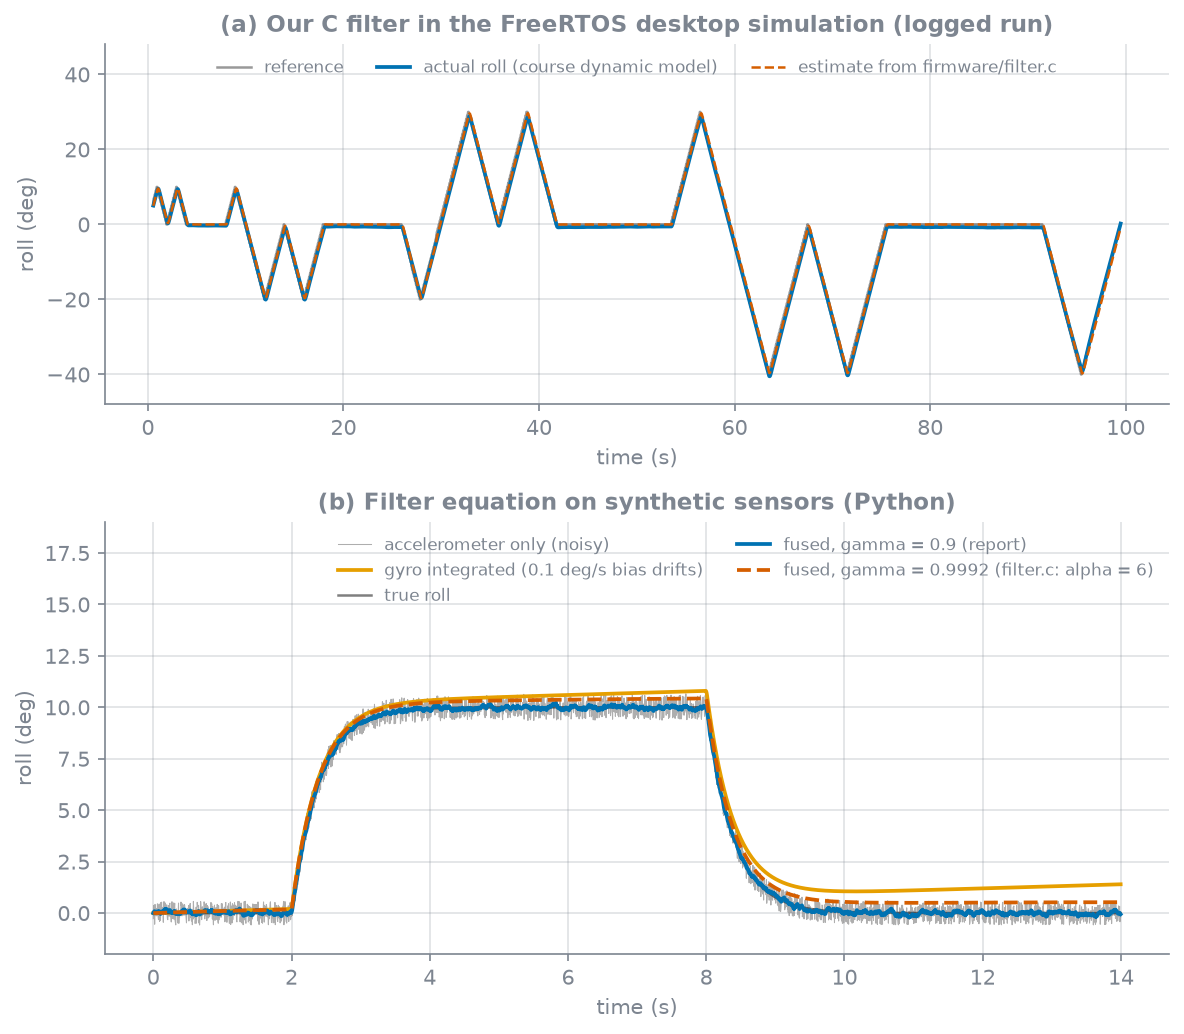
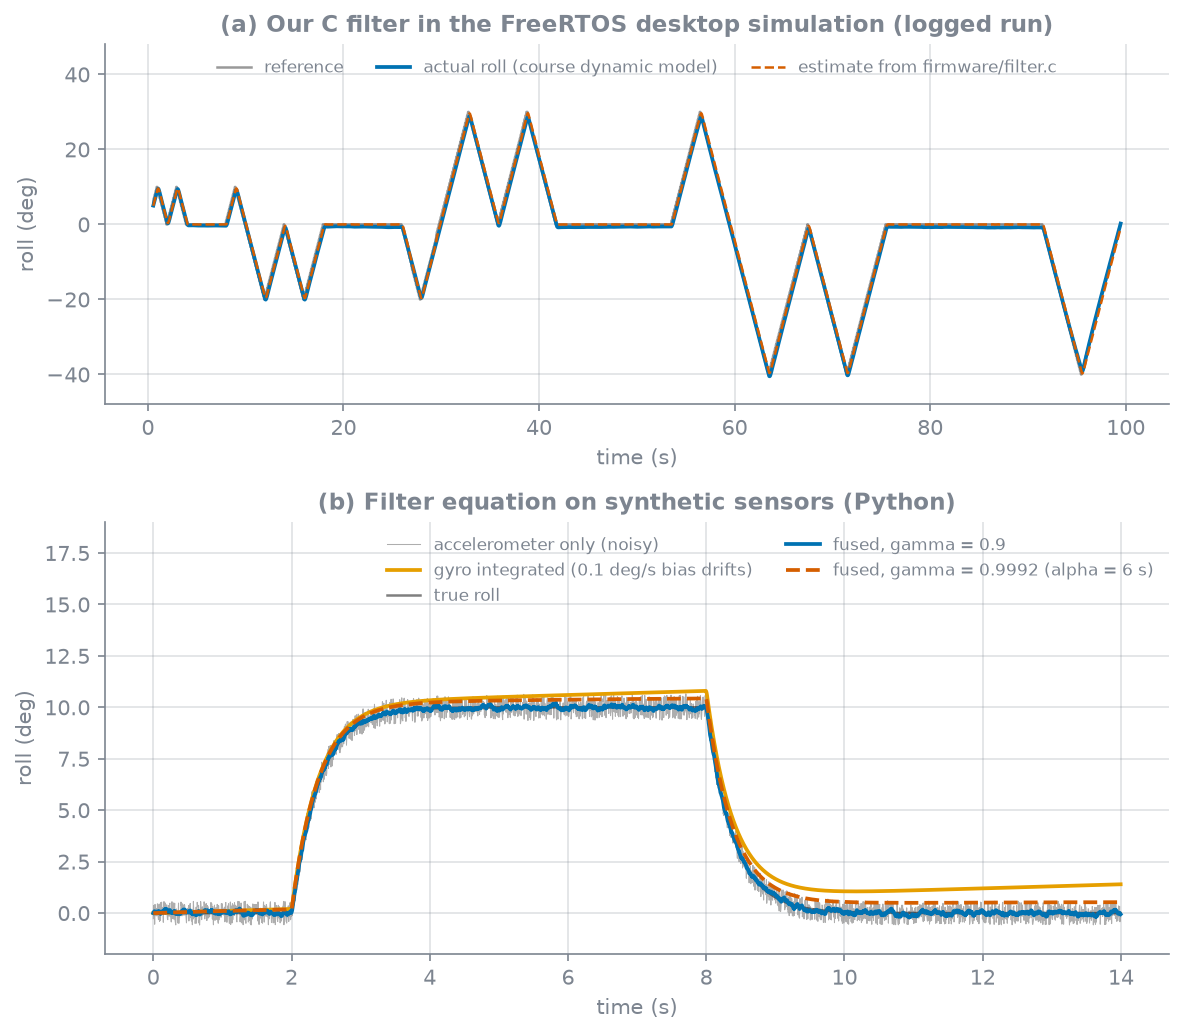
Restructure README to the showcase template (problems, approach, solutions, how to run)

Changed region(s): [[0.2812, 0.5261, 0.9688, 0.588]]

diff --git a/analysis/fig_filter.py b/analysis/fig_filter.py
@@ -31,8 +31,8 @@ a.set_title("(a) Our C filter in the FreeRTOS desktop simulation (logged run)")
 b.plot(t, acc_roll, color=GREY, lw=0.5, alpha=0.7, label="accelerometer only (noisy)")
 b.plot(t, gyro_int, color=ORANGE, label="gyro integrated (0.1 deg/s bias drifts)")
 b.plot(t, roll, color="k", alpha=0.5, lw=1.2, label="true roll")
-b.plot(t, f09, color=BLUE, label="fused, gamma = 0.9 (report)")
-b.plot(t, f0999, color=VERM, ls="--", label="fused, gamma = 0.9992 (filter.c: alpha = 6)")
+b.plot(t, f09, color=BLUE, label="fused, gamma = 0.9")
+b.plot(t, f0999, color=VERM, ls="--", label="fused, gamma = 0.9992 (alpha = 6 s)")
 b.set_ylim(-2, 19); b.set_xlabel("time (s)"); b.set_ylabel("roll (deg)"); b.legend(fontsize=8, loc="upper right", ncol=2)
 b.set_title("(b) Filter equation on synthetic sensors (Python)")
 fig.tight_layout(); fig.savefig(MEDIA / "filter.png")

diff --git a/README.md b/README.md
@@ -1,96 +1,88 @@
 # Crazyflie quadrotor: LQR attitude control and complementary filter
 
+> What is this project about?
+> Making a 27 g Crazyflie 2.1 hold its roll and pitch: model it, design a controller, estimate its attitude from an IMU, and run it as real-time C code. A four-person SSY191 course project (Chalmers). I took ownership of the complementary filter and was heavily involved in testing the code on the Crazyflie hardware.
+
 ![Animated 3D quadrotor following roll and pitch pulses in simulation, with roll and pitch traces beside it](media/hero.gif)
 
-*Attitude only, linearised model. This is a Python re-implementation of the report's model, not the team's Simulink model.*
+*Attitude only, linearised model (Python re-implementation).*
 
-## The project
+## TLDR (In brief)
 
-SSY191 (Chalmers, Model-Based Development of Cyber-Physical Systems) asks a team to take a Crazyflie 2.1 quadrotor from a physical
-model to a controller running on the drone. The goal was to hold roll and pitch and track reference changes. It was a four-person
-team project. I took ownership of the complementary filter and was heavily involved in testing the code on the Crazyflie hardware.
-The model, the LQR design and the rest of the C tasks are team work.
+- **Problem:** stabilise roll and pitch of a quadrotor and track reference changes, using only an accelerometer and a gyro for feedback.
+- **Approach:** a Simscape model linearised at hover, a discrete LQR (Ts = 0.01 s), a complementary filter for the angles, and FreeRTOS tasks in C.
+- **Results:** in simulation a 10 deg pulse rises in 0.85 s with no overshoot, and the filter holds roll within 1.7 deg of the truth in a 99.5 s run. On the real drone the controller oscillated in roll, and the Embedded Coder port was not completed.
 
-## What was done
+## Repo map
 
-1. **Model.** A nonlinear Simscape model of the quadrotor (thrust and torque from four rotors, rigid-body dynamics), linearised at hover
-   into five states (roll, roll rate, pitch, pitch rate, yaw rate) and four rotor-thrust inputs. Equations and constants are in [`docs/model.md`](docs/model.md).
-2. **Controller.** A discrete LQR at Ts = 0.01 s, with Q = diag(2, 0.3, 2, 0.3, 0.5) and R = I, tuned by trial in simulation.
-3. **Estimator.** A complementary filter turns accelerometer and gyro data into roll and pitch angles (next section).
-4. **Embedded implementation.** The filter and controller as FreeRTOS tasks in C, run in a desktop simulation. The Simulink-to-C path
-   with Embedded Coder was not completed.
-5. **Hardware test.** The controller was flashed to the drone and oscillated in roll (see Results).
+```
+README.md
+analysis/   Python scripts that regenerate every figure (+ data/ with a logged C simulation run)
+docs/       model notes (model.md), data sources and mismatches (results.md), metrics/*.json
+firmware/   our C files: filter.c/.h (mine), controller.c/.h (team)
+media/      figures and animations used here
+simulink/   public Crazyflie constants (params.m) and a note on the models
+```
+
+## Problems we had to solve
+
+1. **Model.** A quadrotor is nonlinear and coupled. We needed a model simple enough to design a controller on.
+2. **Control.** Hold roll and pitch, follow reference pulses and reject disturbances, with four motors as the only actuators.
+3. **Attitude estimate.** The accelerometer is noisy and the gyro drifts, and neither gives a usable angle alone. (my part)
+4. **Real-time implementation.** Sensors, filter, controller and references run at different rates and share data, so reads and writes must not collide.
+5. **Model to hardware.** Get the simulated controller running on the real drone.
+
+## Approach we took
+
+- **Model and control (team).** A Simscape model of the thrust and torque from four rotors, linearised at hover into five states (roll, roll rate, pitch, pitch rate, yaw rate) with four thrust inputs. A discrete LQR with Q = diag(2, 0.3, 2, 0.3, 0.5) and R = I, tuned by trial in simulation. Details: [`docs/model.md`](docs/model.md).
+- **Estimation (mine).** A complementary filter: the gyro supplies the short-term motion, the accelerometer pins the long-term angle.
+
+  ```
+  roll_acc  = atan2(a_y, a_z)
+  pitch_acc = atan2(-a_x, sqrt(a_y^2 + a_z^2))
+  theta_k   = (1 - gamma) * theta_acc + gamma * (theta_{k-1} + h * gyro_k)
+  ```
+
+  It runs as a FreeRTOS task every 5 ms (`vTaskDelayUntil`), copies sensor data under `sensors_sem`, and writes the estimate under `estimate_sem` so the 100 Hz controller never reads a half-written value. Yaw is not estimated; the controller feeds back yaw rate only. Code: [`firmware/filter.c`](firmware/filter.c).
+- **Implementation (team, filter mine).** Five C tasks (dynamic model, filter, controller, reference generator, logger) sharing state through binary semaphores. I also took part in the hardware testing.
 
 ![Architecture: a Simulink path from plant to Embedded Coder (not completed) to the Crazyflie, and a FreeRTOS path with dynamic model, filter, controller, reference and log tasks](media/architecture.svg)
 
-The C side has five tasks: a dynamic model (1 ms), our filter (5 ms), the LQ controller (10 ms, 100 Hz), a reference generator and a
-logger. They share sensor data, the angle estimate, references and motor commands through binary semaphores.
+## Our solutions
 
-## The complementary filter
+### 1 and 2. Model and controller: solved in simulation
 
-An accelerometer gives the roll angle directly from the direction of gravity, but it is noisy and corrupted whenever the drone accelerates.
-A gyro gives a clean angular rate, but integrating it accumulates the sensor's bias as drift. The filter takes the short-term
-signal from the gyro and the long-term reference from the accelerometer:
-
-```
-roll_acc  = atan2(a_y, a_z)
-pitch_acc = atan2(-a_x, sqrt(a_y^2 + a_z^2))
-theta_k   = (1 - gamma) * theta_acc + gamma * (theta_{k-1} + h * gyro_k)
-```
-
-![Animation of accelerometer, gyro-integrated and fused roll estimates against the true roll, with the absolute error of each below](media/filter.gif)
-
-*Synthetic data from the Python model with a 0.1 deg/s gyro bias and 0.1 m/s^2 accelerometer noise (the course simulator's sensor model). Gamma = 0.9 as in the report.*
-
-In this run the gyro-only estimate drifts to 4 deg of error after 40 s, the accelerometer alone is noisy at about 0.3 deg, and the fused
-estimate stays near 0.06 deg (mean absolute errors over the run: 2.0, 0.29 and 0.06 deg).
-
-How it is written in C ([`firmware/filter.c`](firmware/filter.c)):
-
-- A FreeRTOS task wakes every 5 ms with `vTaskDelayUntil`, so the period does not slip with the task's own run time.
-- It copies gyro and accelerometer data under `sensors_sem`, computes the update for roll and pitch, and writes the result under `estimate_sem`
-  so the 100 Hz controller never reads a half-written estimate.
-- Yaw is not estimated (the filter outputs 0), because the controller feeds back yaw rate only.
-
-One mismatch: the report chose gamma = 0.9, but the C code computes gamma = alpha / (h + alpha) with alpha = 6 and h = 5 ms, which is 0.9992.
-That weights the gyro almost completely, with a time constant of about 6 s.
-
-![Top: roll estimate from the C filter against the true roll in a desktop FreeRTOS run. Bottom: accelerometer, gyro, and two fused estimates on synthetic data](media/filter.png)
-
-(a) is a logged run of the C filter in the course's desktop simulation: the estimate stays within 1.7 deg of the true roll (RMS 0.71 deg) over 99.5 s.
-(b) compares gamma = 0.9 and 0.9992 on synthetic data. The higher gamma lags the true motion more (RMS 0.39 deg against 0.08 deg).
-
-## Results
-
-### Simulation
+With the LQR, a 10 deg pulse in roll or pitch rises in 0.85 s (10-90 %) and settles in 1.5 s with no overshoot. A 0.5 rad/s rate kick moves roll by 0.14 deg; without feedback the same kick reaches 57 deg within 2 s. Peak thrust deviation is 6.6 mN per motor.
 
 ![Roll and pitch response to a 10 degree pulse and a rate kick for the LQR, a softer LQR, the report's gain matrix and no feedback, with motor thrust deviations below](media/response.png)
 
-With the report's weights, a 10 deg pulse in roll or pitch rises in 0.85 s (10-90 %) and settles in 1.5 s with no overshoot. A 0.5 rad/s rate kick moves roll by
-0.14 deg, while without feedback the same kick reaches 57 deg within 2 s. Pulse size and kick are my choices, since the report does not give them. Peak thrust
-deviation is 6.6 mN per motor.
+All five closed-loop poles are inside the unit circle (largest magnitude 0.9745). With R = I the control-effort term barely matters; rise time only changes once R is scaled by about 1e3 or more.
 
 ![Pole map of the discretised closed loop and a plot of roll rise time against peak thrust as R is scaled](media/poles_qr.png)
 
-All five closed-loop poles are inside the unit circle (largest magnitude 0.9745). With R = I the control-effort term barely matters, and rise time only changes once R is
-scaled by about 1e3 or more.
+### 3. Attitude estimate: solved with the complementary filter
 
-### On the Crazyflie
+On synthetic IMU data (0.1 deg/s gyro bias, 0.1 m/s^2 accelerometer noise) the gyro-only estimate drifts to 4 deg of error after 40 s and the accelerometer alone sits at about 0.3 deg of noise. The fused estimate stays near 0.06 deg (mean absolute errors over the run: 2.0, 0.29 and 0.06 deg).
+
+![Animation of accelerometer, gyro-integrated and fused roll estimates against the true roll, with the absolute error of each below](media/filter.gif)
+
+The C implementation was also run inside the desktop FreeRTOS simulation: the estimate stays within 1.7 deg of the true roll (RMS 0.71 deg) over 99.5 s. The second panel shows the effect of gamma: a larger gamma trusts the gyro more and lags real motion more (RMS 0.39 deg at 0.9992 against 0.08 deg at 0.9).
+
+![Top: roll estimate from the C filter against the true roll in a desktop FreeRTOS run. Bottom: accelerometer, gyro, and two fused estimates on synthetic data](media/filter.png)
+
+### 4. Real-time implementation: solved in the desktop simulation
+
+The five tasks ran together for the full 100 s reference sequence with the semaphore-protected shared state, and the logged run above comes from it.
+
+### 5. Model to hardware: not solved
+
+The controller was flashed to the drone and oscillated in roll (about +-5 to +-7 deg peaks), with pitch near 30 deg and yaw drifting. It stabilises roll and pitch with yaw-rate feedback; yaw angle is not stabilised. The Embedded Coder port was not completed. The report points to the battery on top of the frame as a likely cause; no experiment separated the causes.
 
 ![Roll, pitch and yaw logged from the Crazyflie against timestamp, with roll oscillating continuously](media/report_fig7_hardware.png)
 
-*Figure 7 of the project report, cropped. Not regenerated from data.* Roll oscillates throughout (about +-5 to +-7 deg peaks), pitch sits near 30 deg and yaw drifts. The
-controller stabilises roll and pitch with yaw-rate feedback; yaw angle is not stabilised. The report points to the battery on top of the frame and says the C implementation could not
-be finished. No experiment separated the causes.
+*Figure 7 of the project report, cropped.*
 
-### Limitations
-
-- Simulation results come from a Python re-implementation, not the team's Simulink model, which is not available.
-- The report's gain matrix is reproduced only if B is scaled by about 0.79. I found no physical reason ([`docs/results.md`](docs/results.md)).
-- `controller.c` uses a different gain set from the report, and `filter.c` uses gamma = 0.9992 instead of 0.9.
-- Hardware evidence is one figure from the report.
-
-## Reproduce
+## How to run (Including limitations)
 
 ```bash
 python3 -m venv .venv && . .venv/bin/activate
@@ -98,6 +90,17 @@ pip install -r requirements.txt
 make figures
 ```
 
-This regenerates every figure in `media/` except `report_fig7_hardware.png` (a crop of the report) and writes the numbers to `docs/metrics/*.json`.
-The Simulink models are not included ([`simulink/README.md`](simulink/README.md)). The C files need the course template to build ([`firmware/README.md`](firmware/README.md)).
-Sources, data and mismatches for every number are in [`docs/results.md`](docs/results.md).
+This regenerates every figure in `media/` and the numbers in `docs/metrics/*.json`. It is not a full reproduction:
+
+- The Simulink/Simscape models are not included, so simulation figures come from a Python re-implementation of the model.
+- `media/report_fig7_hardware.png` is a crop of the report; the hardware log is not available.
+- The C files need the course template and FreeRTOS to build ([`firmware/README.md`](firmware/README.md)). The logged simulation run is in `analysis/data/`.
+- Known numeric differences from the report (gain matrix, filter gamma) are listed in [`docs/results.md`](docs/results.md).
+
+## Team Members
+
+Anirudh Vinod Nair, Adyuth Hisham Babu Syed (me, complementary filter), Andreas Särnholm, David Mörck.
+
+## License
+
+None set; all rights reserved.
